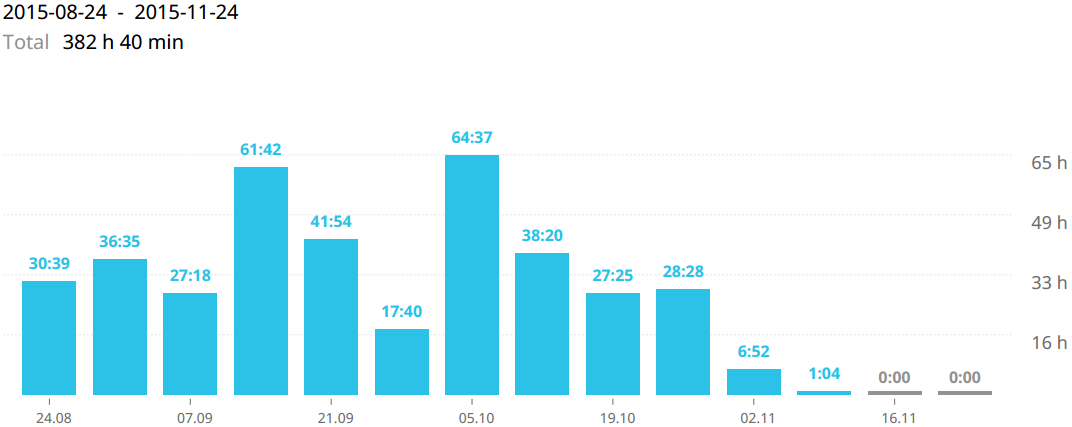
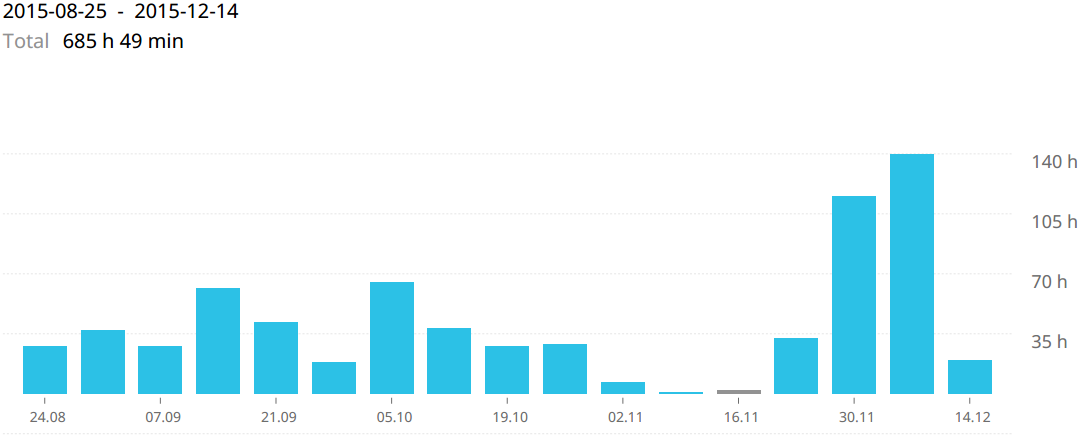
Fine tuning everything...

diff --git a/Final Report/sections/workscheduleandflow.tex b/Final Report/sections/workscheduleandflow.tex
@@ -33,14 +33,22 @@ CCP Games graciously allowed us access to two work stations within their headqua
 \subsection{Progress during the project}
 
 	\subsubsection{Actual hours spent}
+  We ended up spending some more time on the project than was scheduled, we spent 685 hours in total and went 31 hours over the plan to be specific. Most of the difference was during the 12 week term when we sometimes had crunch periods, for example getting features ready in time for EVE Vegas. A detailed view of the time we spent on the project can be seen in figure \ref{fig:total}. Overall we were both very pleased with each other's contribution and dedication to the project. 
 
-		%TODO: Insert images from toggl of hours spent once work is done.
+		\begin{figure}[H]
+      \centering
+      \graphicspath{ {./graphics/} }
+      \centerline{\includegraphics[scale=0.43]{total.png}}
+      \caption{\label{fig:total} A breakdown of the hours we spent on the project. The x-axis represents each week during the project's time span and the y-axis represents the hours spent on the project each week.}
+    \end{figure}
 	
 	\subsubsection{Actual stories}
 		The stories we ended up implementing changed quite a lot from what we had planned. A lot of stories got added a during the project and a few got dropped because of changes to the project's focus. The main reason for this deviation from the plan was the user test we performed, it spawned a lot of new ideas and features that we hadn't even thought of before. At the end of the project we had 50 A stories, totaling 570 story points, 18 B stories with 251 story points and 5 C stories that totaled 64 story points. We decided to focus on finishing all the A stories, which we managed to do. Finishing those 570 story points gave us a velocity of 81.4 story points per sprint. The remaining B and C stories will hopefully be implemented in the near future, which we discuss in greater detail in section \ref{sec:futurework}.
 
 	\subsubsection{Project burndown chart}
-  % Add text going over the chart
+    The burndown chart for the entire project can be seen in figure \ref{fig:bdchart}. We estimated our velocity to be quite low for the first sprint since we figured it would take time to get acquainted with the project, the work environment and the tools we would need to work with. After that we estimated that our velocity would increase and average out to about 77 story points per sprint during the 12 week semester. For the last two sprints we estimated our velocity to be 114 story points per sprint as we would have more capacity during those sprints. 
+
+    Our estimate was not far off the mark, although we sometimes did get behind schedule we always managed to make up for it and ultimately reach our goal. 
 		
 		\begin{figure}[H]
 		  \centering
@@ -50,7 +58,7 @@ CCP Games graciously allowed us access to two work stations within their headqua
 		\end{figure}
 
 	\subsubsection{Sprint summary}
-  We did seven sprints in total and were able to refine our process and learn from our mistakes along the way. Early mistakes we made included underestimating stories which affected the consistency of our velocity, we also should have broken up larger stories to be able to finish them in a single sprint. The latter mistake resulted in us being behind schedule for sprints two and three but we managed to catch up in sprint four when we temporarily had more capacity and finished a lot of stories. In sprint five we again fell behind schedule as demands from other courses took their toll on us. We made up for it in sprints six and seven when we had a much greater capacity and no other courses to worry about. Those sprints went really well as by that time we had improved our process. 
+  We did seven sprints in total and were able to refine our process and learn from our mistakes along the way. Early mistakes we made included underestimating stories which affected the consistency of our velocity, we also should have broken up larger stories to be able to finish them in a single sprint. The latter mistake resulted in us being behind schedule for sprints two and three but we managed to catch up in sprint four when we temporarily had more capacity and finished a lot of stories. In sprint five we again fell behind schedule as demands from other courses affected our capacity. We made up for it in sprints six and seven when we had a much greater capacity and no other courses to worry about. Those sprints went really well as by that time we had improved our process. 
 
 \subsection{Schedule summary}
 The initial plan changed quite a lot during the project, so the plan we set out with didn't really come to fruition. A lot of stories got added, we dropped a few stories and a lot of stories were set aside to be implemented in the future. We constantly adapted the backlog and the stories to the constantly evolving design of \emph{Project Discovery}. In the end we felt we met all our objectives and the plan worked out for us, as we delivered a game worthy of release to the \emph{EVE Online} test server. 

diff --git a/Final Report/sections/conclusion.tex b/Final Report/sections/conclusion.tex
@@ -12,8 +12,10 @@ In section \ref{sec:workscheduleandflow}, we explained the work flow of the proj
 
 Finally, in section \ref{sec:futurework}, we discussed the future of \emph{Project Discovery}, and what it entails, whether or not the project will be continued by CCP Games, and how the \emph{Project Discovery} client has actually been carefully designed with the express goal in mind of solving other scientific problems as well, not just the subcellular atlas, a small part of The Human Protein Atlas.
 
+The status of \emph{Project Discovery} as of December 2015 is really positive. The game has a strong support from CCP and has already been released on the Singularity test server. Hjalti will continue working on the game as an intern at CCP, with the goal of releasing it on the Tranquility server cluster. Furthermore, the game has received considerable attention both in Iceland and internationally. The game was mentioned in \emph{Nature Magazine}~\cite{nature} which is one of the most established and respected scientific journals in the world. The game featured heavily at the EVE Vegas conference in October 2015, where it was presented at the keynote speech and it was also playable for attendees of the conference. After EVE Vegas there were several articles about the game online, Discovery.com~\cite{discovery} being the most prominent. The project also garnered attention from the university, being featured in both the RU Magazine~\cite{rumag} and RU.is~\cite{ruis}, it was also represented at the CADIA (Reykjavík University's artificial intelligence research center) festival in October 2015. 
+
 This project was nothing short of an amazing experience, getting to go outside of the university and working in the field of computer science with such incredible partners can hardly be described. We felt lucky to be a part of such a big project, that would surely touch hundreds, if not thousands of people if we were successful in the development of \emph{Project Discovery}, which surely added a level of stress. It has been very rewarding and motivating to work on a project like this that has garnered the type of attention that it has, being presented in the keynote at EVE Vegas 2015, and being mentioned in Nature magazine are such huge things for students like us to be part of. All this aside, we met our intended goals and are happy with the outcome of the project, we would not change much if we could do it again, although being preoccupied with other university courses was hindering in some cases.
 
-Finally, we would like to thank all our partners, CCP Games for hosting this project and supporting us all the way, MMOS for working with us this closely to achieve the best quality of the project, and the Human Protein Atlas for providing us with material to best teach new players how to classify the images. Special thanks go to Pétur Örn Þórarinsson from CCP, our project manager for helping us with game design and prioritizing tasks, David Thue from CADIA (Reykjavík University's artificial intelligence research center) for connecting us with the project and supporting it, Attila Szantner from MMOS for the weekly meetings and coming to Iceland to work with us more closely, Emma Lundberg from the HPA for coming to Iceland and helping us closely with how to best teach classification, Team Space Glitter for answering all our questions, and assisting us with \emph{EVE} related programming problems, and finally, Sergey Trubetskoy for designing and providing all the assets for \emph{Project Discovery}.
+Finally, we would like to thank all our partners, CCP Games for hosting this project and supporting us all the way, MMOS for working with us this closely to achieve the best quality of the project, and the Human Protein Atlas for providing us with material to best teach new players how to classify the images. Special thanks go to Pétur Örn Þórarinsson from CCP, our project manager for helping us with game design and prioritizing tasks, David Thue from CADIA for connecting us with the project and supporting it, Attila Szantner from MMOS for the weekly meetings and coming to Iceland to work with us more closely, Emma Lundberg from the HPA for coming to Iceland and helping us closely with how to best teach classification, Team Space Glitter for answering all our questions, and assisting us with \emph{EVE} related programming problems, and finally, Sergey Trubetskoy for designing and providing all the assets for \emph{Project Discovery}.
 
 Everyone was a delight to work with and we could not have asked for a better team for this project. Surely, the experience we gathered from this project will pay off immensely in the future. This project was very special to us and we hope it will become something great within the \emph{EVE Online} world, helping the scientific community and setting a precedent for other game developers to follow, designing games with the purpose of helping the world.

diff --git a/Final Report/sections/futurework.tex b/Final Report/sections/futurework.tex
@@ -1,4 +1,4 @@
 \section{Future Work}\label{sec:futurework}
-Development of Project Discovery will not end with this final project. Hjalti has already accepted an internship at CCP and will continue to develop the game with the ultimate goal of releasing it on Tranquility, EVE Online's main server cluster \cite{tranquility}. Before that can be realized, a few objectives must be met. The game is currently out on Singularity \cite{singularity}, EVE Online's biggest test server, which allows thousands of players to access the game. When those players play the game it will generate a huge amount of data and feedback, which could be very influential on the future and direction of the game. Responding to that data and feedback is one of the objectives that must be met before the Tranquility release. The other objectives are features that were planned at the start of this final project, but because of time constraints and changes to the focus of the game, were not implemented before the Singularity release. Those features include leaderboards, daily challenges and a more interactive tutorial. 
+Development of \emph{Project Discovery} will not end with this final project. Hjalti has already accepted an internship at CCP and will continue to develop the game with the ultimate goal of releasing it on Tranquility, \emph{EVE Online}'s main server cluster \cite{tranquility}. Before that can be realized, a few objectives must be met. The game is currently out on Singularity \cite{singularity}, \emph{EVE Online}'s biggest test server, which allows thousands of players to access the game. When those players play the game it will generate a huge amount of data and feedback, which could be very influential on the future and direction of the game. Responding to that data and feedback is one of the objectives that must be met before the Tranquility release. The other objectives are features that were planned at the start of this final project, but because of time constraints and changes to the focus of the game, were not implemented before the Singularity release. Those features include leaderboards, daily challenges and a more interactive tutorial. 
 
-The subcellular protein atlas, the current project from the Human Protein Atlas that Project Discovery is being utilized for, has a finite number of images. Therefore analysis of those images will at some point conclude, which could actually happen fairly early in the lifespan of the game if EVE Online players embrace the feature. Once that point is reached there is the possibility to adapt Project Discovery to work with other citizen science projects. The Human Protein Atlas, for an example, has other atlases that could potentially be the focus of Project Discovery in the future. MMOS designed their API with this in mind, they expect the subcellular atlas to be the first of many scientific projects that Project Discovery assists. The game client has also been structured with regard to this possibility. Any project that involves analysis of images in a similar way to the subcellular atlas could therefore replace that project once it has been completed. To use the client for another project would certainly need substantial customization for that project, so it's not something that is quick and easy to do, but it is definitely possible.
+The subcellular protein atlas, the current project from the Human Protein Atlas that \emph{Project Discovery} is being utilized for, has a finite number of images. Therefore analysis of those images will at some point conclude, which could actually happen fairly early in the lifespan of the game if \emph{EVE Online} players embrace the feature. Once that point is reached there is the possibility to adapt \emph{Project Discovery} to work with other citizen science projects. The Human Protein Atlas, for an example, has other atlases that could potentially be the focus of \emph{Project Discovery} in the future. MMOS designed their API with this in mind, they expect the subcellular atlas to be the first of many scientific projects that \emph{Project Discovery} assists. The game client has also been structured with regard to this possibility. Any project that involves analysis of images in a similar way to the subcellular atlas could therefore replace that project once it has been completed. To use the client for another project would certainly need substantial customization for that project, so it's not something that is quick and easy to do, but it is definitely possible.

diff --git a/Final Report/sections/introduction.tex b/Final Report/sections/introduction.tex
@@ -4,17 +4,15 @@ Many scientific projects produce large amounts of data that can be beneficial fo
 
 The amount of data to analyze can be tremendous and it could take scientists years to work through them. In most cases, the analysis of such data is simple enough for ordinary humans with minimal training to perform. If ordinary citizens could be motivated to solve real world scientific problems like analyzing data, we could release the huge bottleneck that is throttling the modern scientific community of the world.
 
-% Add minor introduction to GWAP here with citation. It can be used to link the 
-% two paragraphs above together and the one below.
+That's where Games with a purpose (GWAPs) come in. In GWAPs people perform basic tasks that cannot be automated, they might not be personally interested in solving an instance of a computational problem, instead they simply wish to be entertained~\cite{GWAP}.
 
-% 
-The purpose of this project is to design and develop a game to help a project named the Human Protein Atlas\footnote{\url{http://www.proteinatlas.org/}}, to improve their publicly available database of images of human tissue and cells, by having ordinary citizens play a game for fun and meanwhile, analyze and identify protein structures in human cells.
+The purpose of this project is to design and develop a GWAP to help a project named the Human Protein Atlas\footnote{\url{http://www.proteinatlas.org/}}, to improve their publicly available database of images of human tissue and cells, by having ordinary citizens play a game for fun and meanwhile, analyze and identify protein structures in human cells.
 
 This concept of using games to motivate citizens to do science has already been proven useful in the past, with games such as FoldIt~\cite{foldit}, where players compete to find the lowest energy state of a protein, thus helping research in the prediction of protein structures, and Galaxy Zoo~\cite{galaxyzoo}, where players help each other classifying astral bodies in order to find out how galaxies are formed.
 
 These games got a massive following and went viral for months, with people all over the world competing to get the highest score. However, a problem arose, new players who were interested in the concept, tried the game out, solved a few tasks and then closed the game and rarely ever tried again. How can we keep players interested in playing the game and analyzing the data that the scientific community desperately needs?
 
-In order to try and solve this problem of player retention, our game has been injected into an already existing game with a large player base, where people are returning daily to play, have been doing so for years, and will hopefully continue to do so for years to come. This way we hoped to solve the difficult problem from previous citizen science projects by rewarding players with in-game currency that they can use outside the project, something that was already of value to them in the existing game. This provides a tangible financial motivation, a reliable source of in-game income for solving relatively simple tasks is something no player should miss out on.
+In order to try and solve this problem of player retention, our game has been injected into an already existing game with a large player base, where people are returning daily to play, have been doing so for years, and will hopefully continue to do so for years to come. This way we hoped to solve the difficult problem from previous citizen science~\cite{citizenscience} projects by rewarding players with in-game currency that they can use outside the project, something that was already of value to them in the existing game. This provides a tangible financial motivation, a reliable source of in-game income for solving relatively simple tasks is something no player should miss out on.
 
 In this report, we seek to illustrate and outline the nature of the project, and the work done by us in the available time frame. In section~\ref{sec:background}, we discuss the problems the project faced and the solutions we offered, as well as listing and discussing the numerous partners to the project, and what benefits they brought. Finally, we explain the previous work already committed to the project before our arrival.
 

diff --git a/Final Report/sections/userevaluation.tex b/Final Report/sections/userevaluation.tex
@@ -1,11 +1,11 @@
 \section{User evaluation}\label{sec:userevaluation}
 
-We performed a preliminary, in-house user evaluation in early October. This was not a part of the original project description but we were advised by Pétur Örn Þórarinsson, our project manager, to do this before the Project Discovery game would be showcased at EVE Vegas, a conference for EVE Online players and fans. The purpose of this test was to shed light on any obvious errors with the game, especially the tutorial phase which was at an early stage at the time.
+We performed a preliminary, in-house user evaluation in early October. This was not a part of the original project description but we were advised by Pétur Örn Þórarinsson, our project manager, to do this before the \emph{Project Discovery} game would be showcased at EVE Vegas~\cite{vegas}, a conference for \emph{EVE Online} players and fans. The purpose of this test was to shed light on any obvious errors with the game, especially the tutorial phase which was at an early stage at the time.
 
 \subsection{Implementation}
 The tests took place on the 9th of October 2015. We got five participants from CCP, four males and one female between the ages of 25 to 40. The people were a mix of game designers, quality assurance people and community developers. The reason we only got people from within CCP to partake in the tests was that the game was not ready to be revealed to the public so we could not get people outside of CCP to take part.
 
-The test was performed on a computer that remotely connected to our personal work desktop. The evaluation was performed as follows, a participant arrived, we greeted them, thanked them for coming, and explained the procedure. The procedure was that the participant would sit down and we would observe them while they played Project Discovery. The participant would open Project Discovery, finish the tutorial and a handful of other tasks. While playing, we asked the participant to think aloud . Participants could play for as long as they wanted within a reasonable amount of time, given that they continued to think aloud.
+The test was performed on a computer that remotely connected to our personal work desktop. The evaluation was performed as follows, a participant arrived, we greeted them, thanked them for coming, and explained the procedure. The procedure was that the participant would sit down and we would observe them while they played \emph{Project Discovery}. The participant would open \emph{Project Discovery}, finish the tutorial and a handful of other tasks. While playing, we asked the participant to think aloud . Participants could play for as long as they wanted within a reasonable amount of time, given that they continued to think aloud.
 
 After the participant had finished playing we asked them questions about their experience playing the game and then thanked them for their contribution to the project. The questions we asked participants and their answers can be found in appendix \ref{sec.data}.
 

diff --git a/Final Report/sections/background.tex b/Final Report/sections/background.tex
@@ -1,6 +1,5 @@
 \section{Background}\label{sec:background}
-% Move (GWAP) \cite{GWAP}. That is, the abbreviation and the citation.
-In this section we discuss GWAP\cite{GWAP}, and how this project is related to that. We name the partners, and their participation in the project. Finally, we outline previous work already committed to this project by previous students.
+In this section we discuss GWAP and how this project is related to that. We name the partners, and their participation in the project. Finally, we outline previous work already committed to this project by previous students.
 
 \subsection{Game with a purpose}
 In the modern world a lot of people play video games, either competitively or casually, in fact ``the average American has played 10,000 hours of video games by the age of 21''~\cite{twitch}. We could do amazing things if we could channel some of that time and energy into solving large scale, real world scientific problems.
@@ -50,7 +49,7 @@ science is vital to citizen science projects. However, to keep up the long-term 
 
 This approach can offer a win-win situation that benefits all parties: scientists, gamers and the gaming industry at large.
 
-\subsection{CCP Games andEVE Online}
+\subsection{CCP Games and EVE Online}
 
 CCP Games \cite{CCP} is one of the biggest video game developers and publishers in Iceland. CCP is best known for producing virtual worlds such as the multiple award winning game \emph{EVE Online}, a player-driven science fiction massively multiplayer online role-playing Game (MMORPG), set in space. \emph{EVE Online} is home to over 7,000 star systems and is frequently played by hundreds of thousands of players, with tens of thousands playing every day. CCP showed much enthusiasm for this project and was willing to see if the \emph{EVE Online} community would show positive reactions to helping real world science while playing their favorite game. If a prototype would be well received, CCP was willing to host this game fully on the \emph{EVE Online} live servers where the whole EVE universe would be able to participate in the project, activating hundreds of thousands of brilliant human brains to solving the scientific problem at the Human Protein Atlas.
 

diff --git a/Final Report/sections/coverletter.tex b/Final Report/sections/coverletter.tex
@@ -1,0 +1,19 @@
+{\Large
+\textbf{Partner references}}
+
+\vspace{0.4cm}
+
+``The previous half year we had Hjalti Leifsson and Jóhann Örn Bjarkason on the team of Project Discovery. The project posed several challenges to the students from the utilisation of diverse technologies to the project team being in different geographical locations (Iceland, Sweden, Switzerland, USA). Hjalti and Jóhann made an excellent job of overcoming obstacles and implementing the in-game citizen science client - taking it from a prototype phase all the way to production quality. Their motivation was unquestionable and they were also very good team players.''
+
+\begin{flushright}
+\textbf{Attila Szantner - MMOS}
+\end{flushright}
+
+
+\vspace{1.0cm}
+
+``Lorem ipsum....''
+
+\begin{flushright}
+\textbf{Pétur Örn Þórarinsson - CCP}
+\end{flushright}

diff --git a/Final Report/main.tex b/Final Report/main.tex
@@ -23,18 +23,17 @@ style=numeric,
 \addbibresource{bibliography.bib}
 
 \begin{document}
-\input{sections/titlepage}
+\include{sections/titlepage}
 \include{sections/abstract}
+\include{sections/coverletter}
 \tableofcontents
-\input{sections/introduction}
-\input{sections/background}
-\input{sections/projectdiscovery}
-\input{sections/userevaluation}
-\input{sections/workscheduleandflow}
-\input{sections/futurework}
-\input{sections/conclusion}
-\clearpage
+\include{sections/introduction}
+\include{sections/background}
+\include{sections/projectdiscovery}
+\include{sections/userevaluation}
+\include{sections/workscheduleandflow}
+\include{sections/futurework}
+\include{sections/conclusion}
 \printbibliography
-\clearpage
-\input{sections/appendix}
+\include{sections/appendix}
 \end{document}
